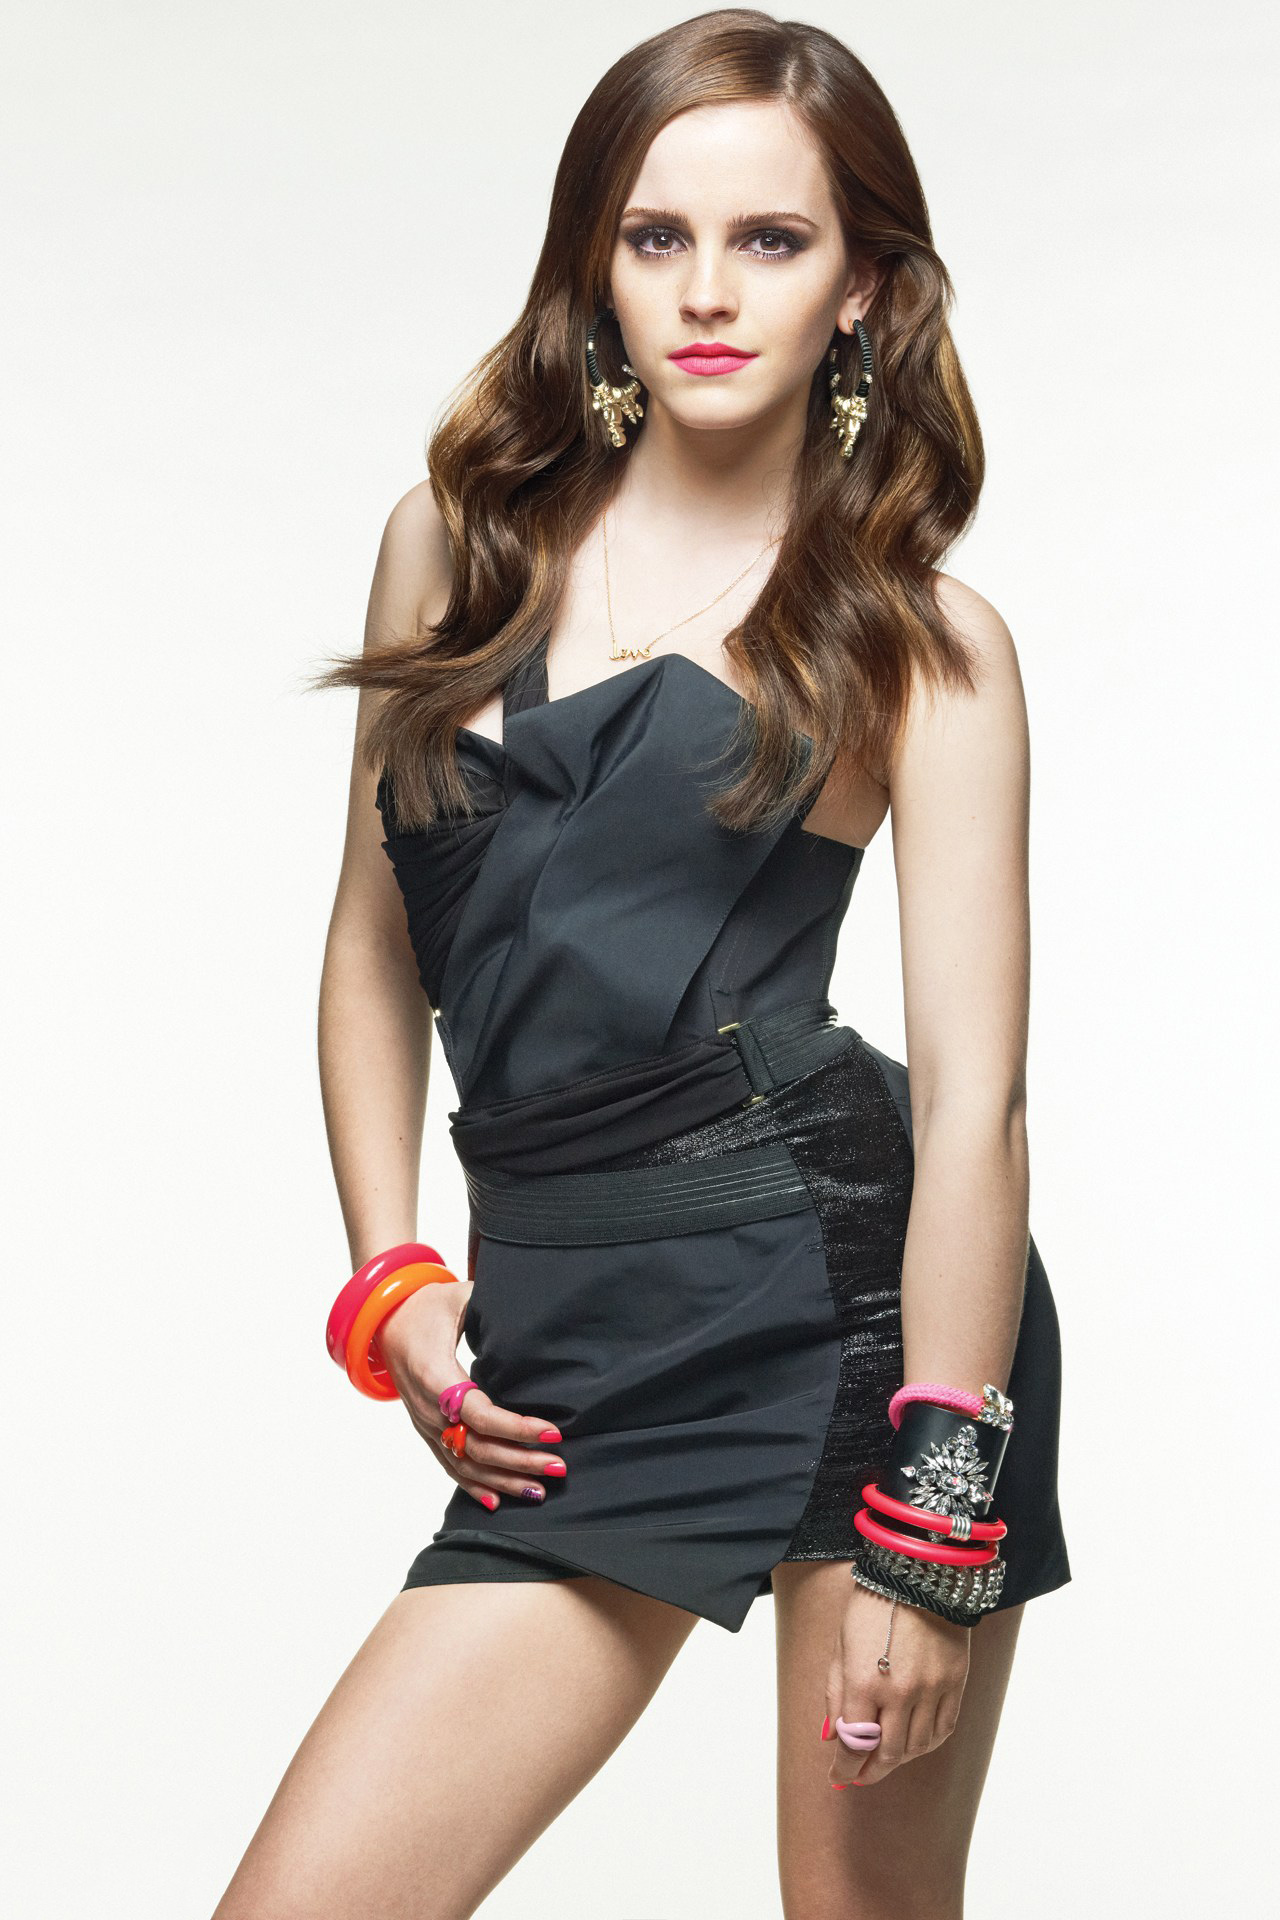
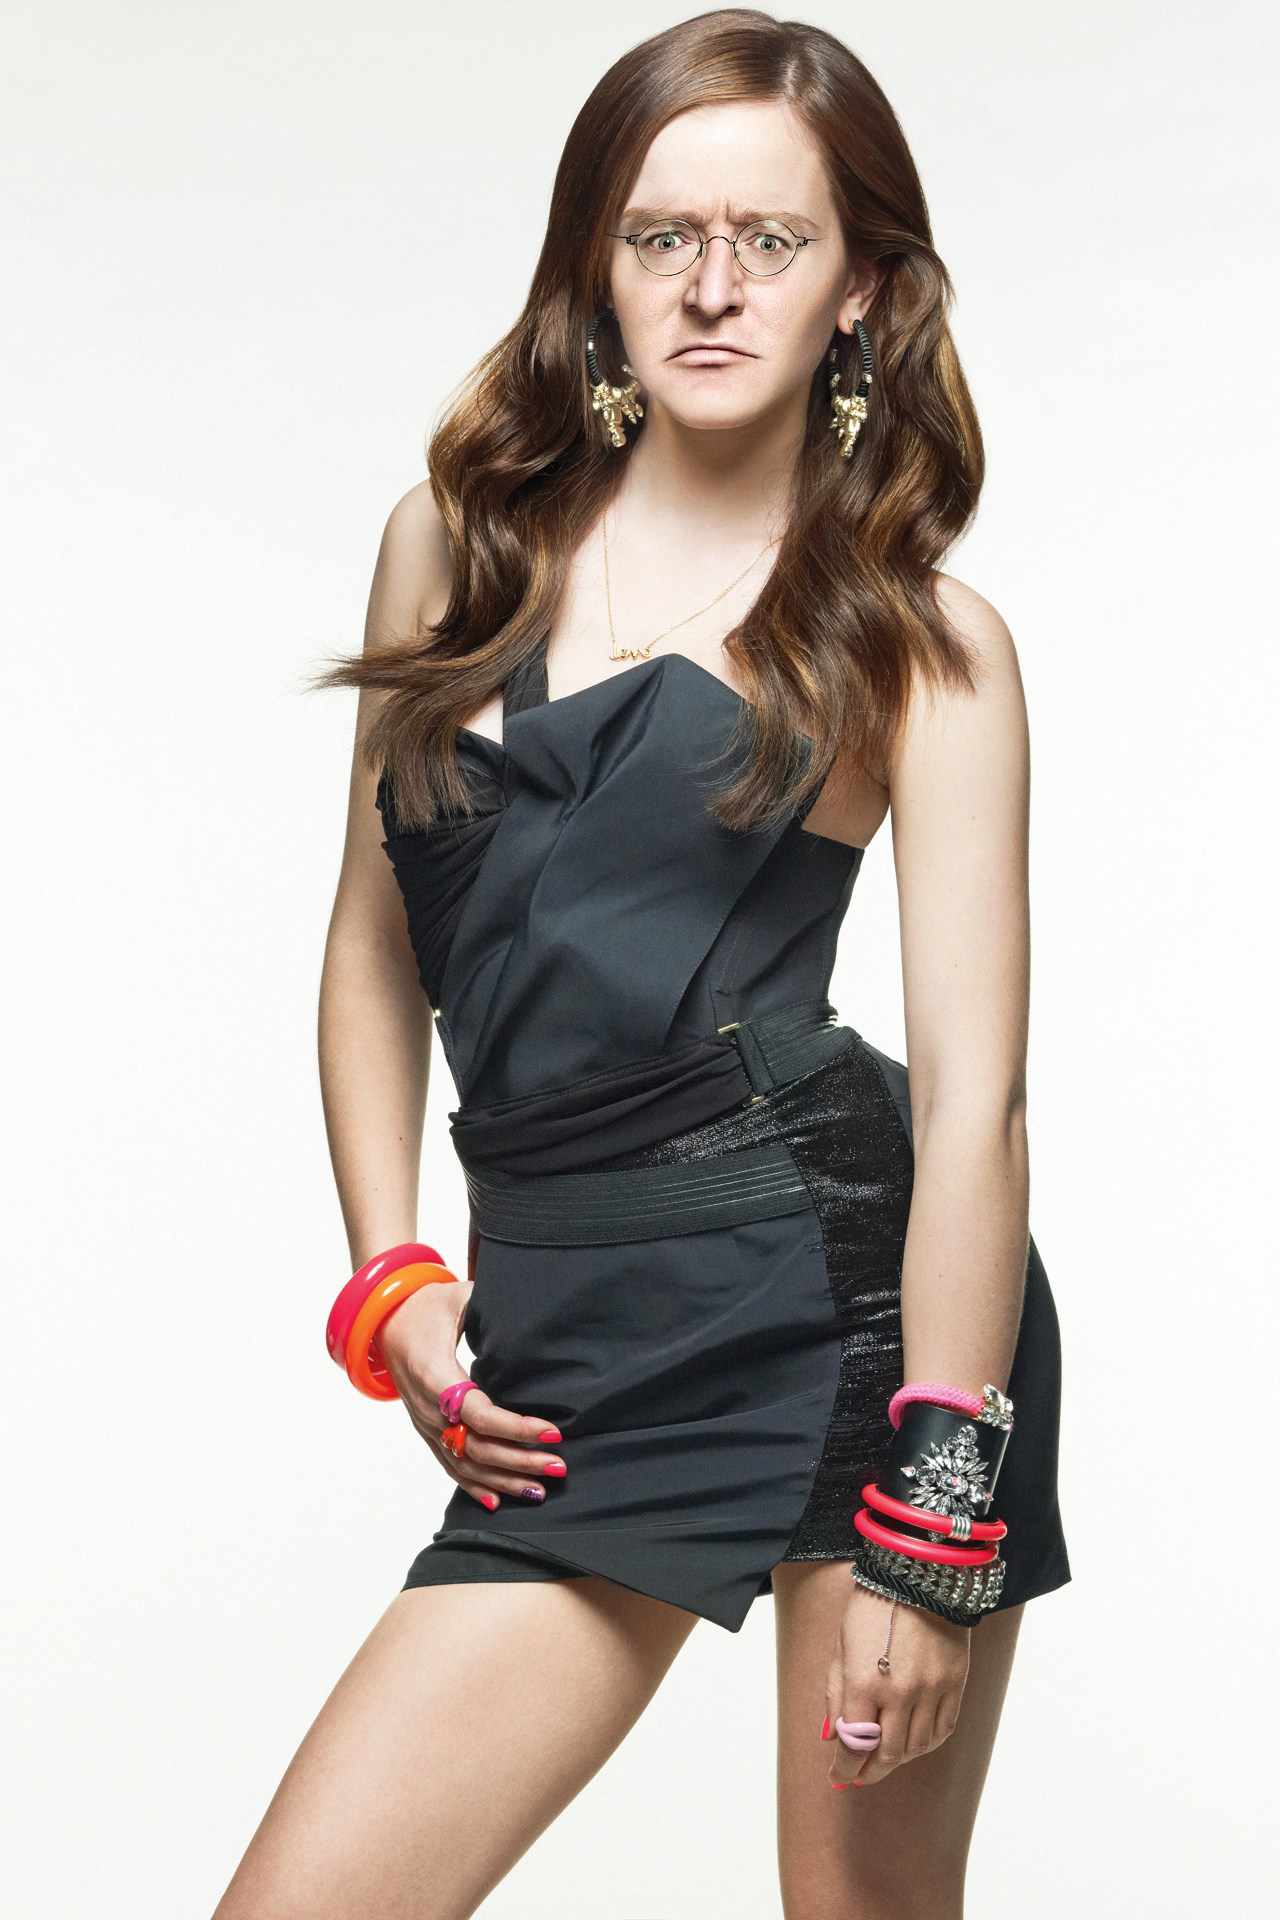
Replace explicit scaling and positioning with homographic transform.
By using four points (two eyes, two corners of the mouth) and SPOOKY
linear algebra, we can correct for slight perspective (and replace the
messy positioning calculations).

Changed region(s): [[0.4688, 0.0938, 0.6562, 0.2188]]

diff --git a/image_operations.py b/image_operations.py
@@ -3,6 +3,7 @@
 import os
 from typing import List
 
+import numpy as np
 from PIL import Image, ImageStat
 import face_detect
 
@@ -57,6 +58,29 @@ def _paste_donor_on_recipient(
         donor_face: face_detect.Face,
         donor_image: Image):
 
-    # TODO: rewrite with like, math and stuff
-    return recipient_image
+    get_coords = lambda face: [c.xy() for c in [face.left_eye, face.right_eye, face.mouth_left, face.mouth_right]]
+    donor_coords = get_coords(donor_face)
+    recipient_coords = get_coords(recipient_face)
+    coefficients = _find_coeffs(recipient_coords, donor_coords)
 
+    warped_donor = donor_image.transform(
+        recipient_image.size, Image.PERSPECTIVE, coefficients, Image.BICUBIC)
+
+    working_recipient = recipient_image.copy()
+    working_recipient.paste(warped_donor, (0, 0), warped_donor)
+
+    return working_recipient
+
+
+# Adapted from https://stackoverflow.com/questions/14177744/how-does-perspective-transformation-work-in-pil.
+def _find_coeffs(pa, pb):
+    matrix = []
+    for p1, p2 in zip(pa, pb):
+        matrix.append([p1[0], p1[1], 1, 0, 0, 0, -p2[0]*p1[0], -p2[0]*p1[1]])
+        matrix.append([0, 0, 0, p1[0], p1[1], 1, -p2[1]*p1[0], -p2[1]*p1[1]])
+
+    A = np.array(matrix, dtype=np.float)
+    B = np.array(pb).reshape(8)
+
+    res = np.dot(np.linalg.inv(A.T @ A) @ A.T, B)
+    return np.array(res).reshape(8)

diff --git a/face_detect.py b/face_detect.py
@@ -13,7 +13,11 @@ Face = collections.namedtuple(
     'Face',
     ('roll', 'yaw', 'vertices', 'left_eye', 'right_eye',  'mouth_left', 'mouth_right'))
 
-Coordinate = collections.namedtuple('Coordinate', ('x', 'y', 'z'))
+
+class Coordinate(collections.namedtuple('Coordinate', ('x', 'y', 'z'))):
+
+    def xy(self):
+        return self.x, self.y
 
 # Google Vision APIs return strings instead of confidences.
 LIKELIHOODS = {v: i for i, v in enumerate(
